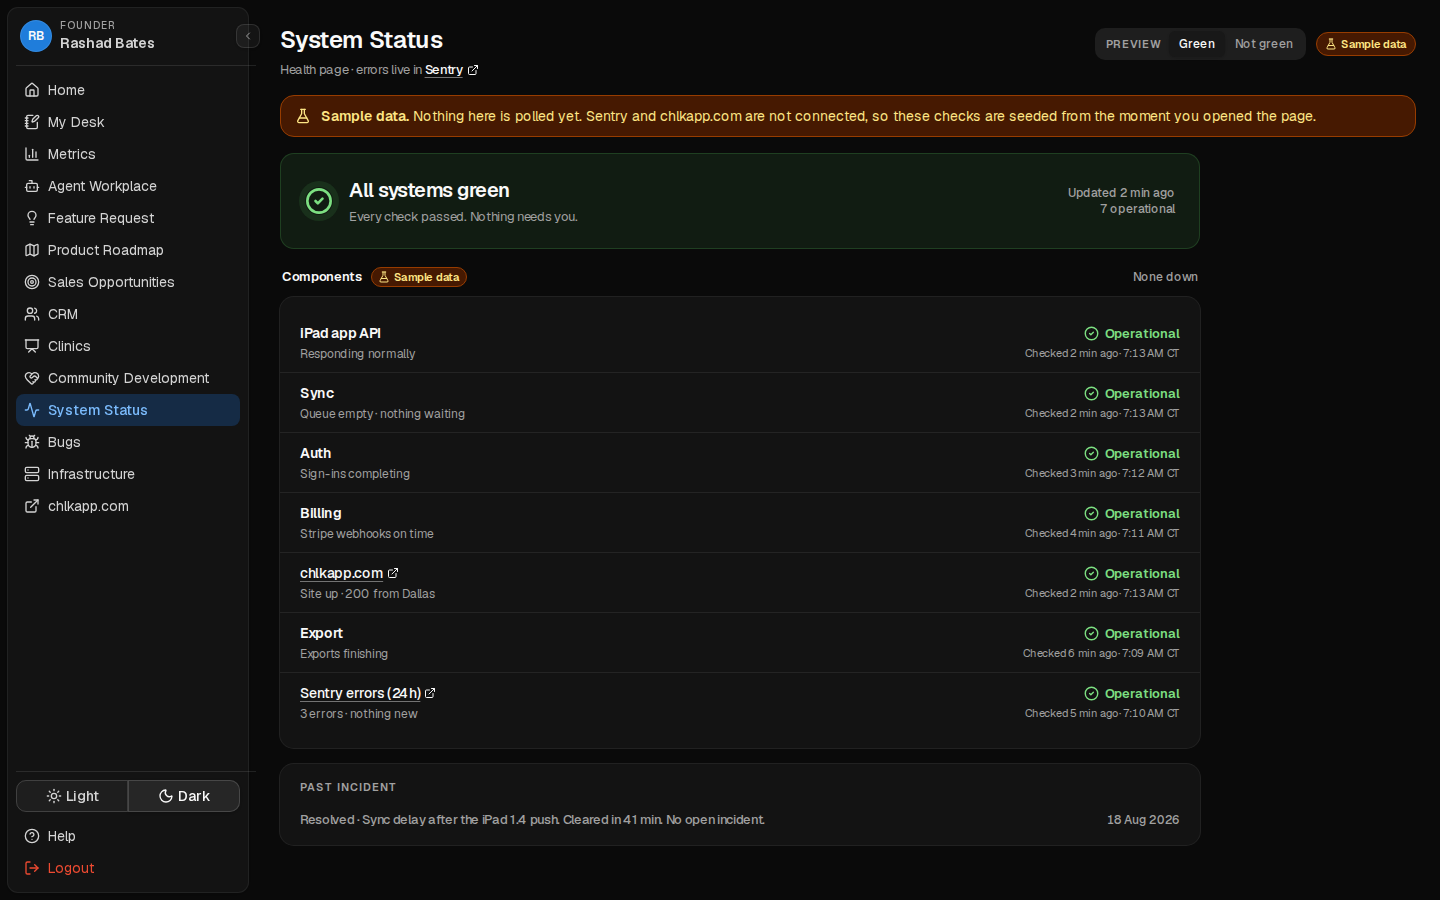
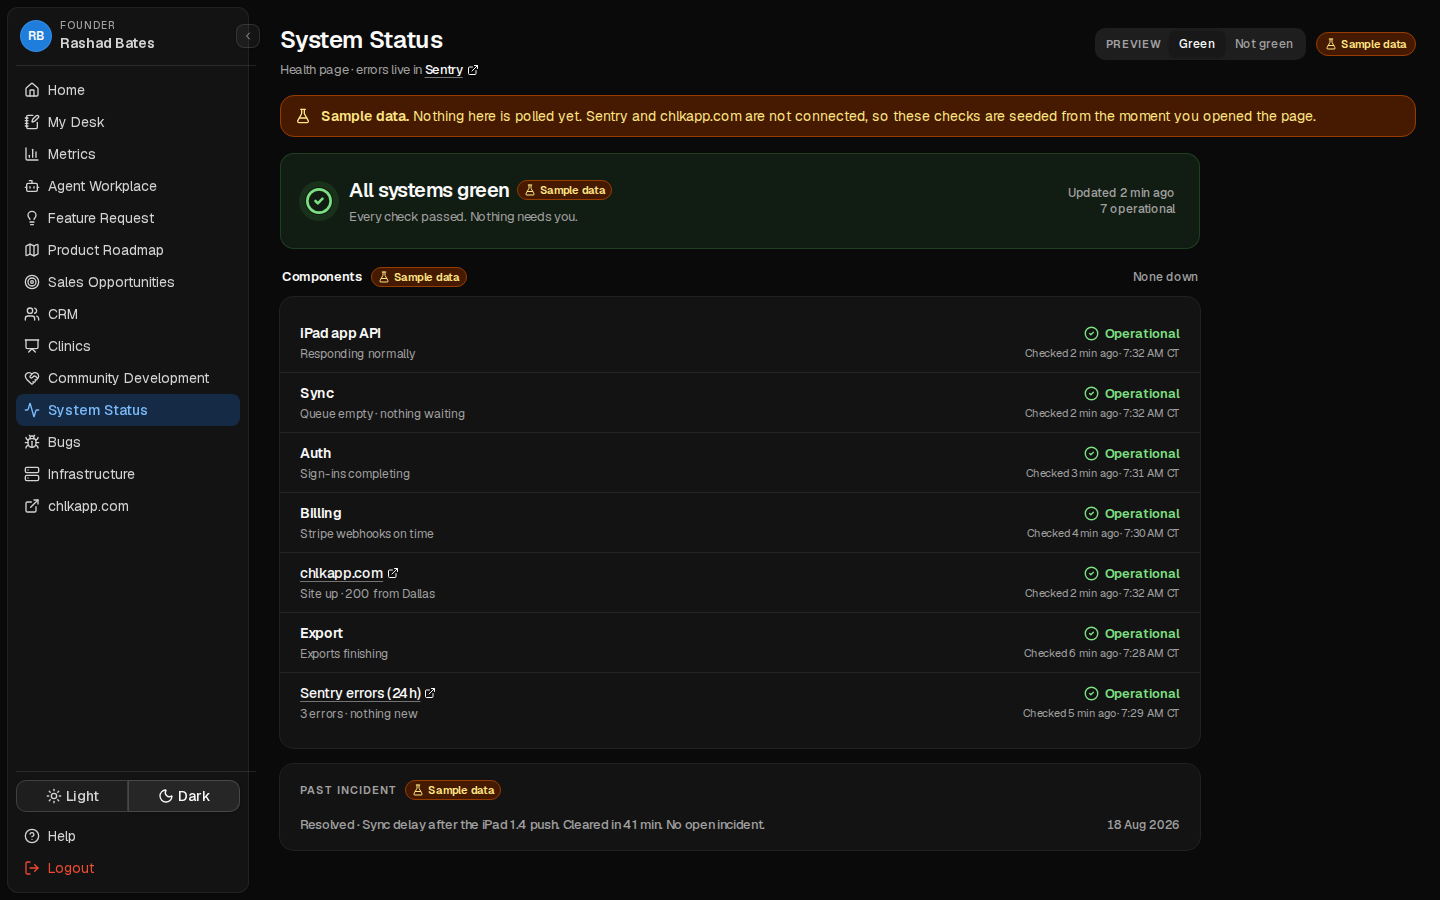
docs(system-status): re-shoot after Mack review tags, empty state, Tab focus
1440×900 from production next start (CI=true). Logout visible. New empty
state light/dark. Preview toggle reached with Tab so :focus-visible paints;
settleAnimations instead of waitForTimeout.

diff --git a/e2e/system-status-screens.spec.ts b/e2e/system-status-screens.spec.ts
@@ -42,9 +42,12 @@ for (const theme of ["light", "dark"] as const) {
     await expect(banner(page).getByRole("heading", { level: 2, name: "All systems green" })).toBeVisible()
     await shoot(page, `system-status-green-${theme}`)
 
-    // Tab from Green onto "Not green" so the focus ring paints (`.focus()`
-    // does not). Shared settle, not a timeout, before the close-up.
-    await preview(page).getByRole("link", { name: "Green", exact: true }).press("Tab")
+    // Tab from Green onto "Not green" so :focus-visible paints (`.focus()`
+    // does not). Click first so the next key is a real Tab, not a
+    // programmatic focus. Shared settle, not a timeout, before the close-up.
+    await preview(page).getByRole("link", { name: "Green", exact: true }).click()
+    await page.keyboard.press("Tab")
+    await expect(preview(page).getByRole("link", { name: "Not green", exact: true })).toBeFocused()
     const header = main(page).locator("header").first()
     await settleAnimations(page)
     for (const dir of OUT_DIRS) {
